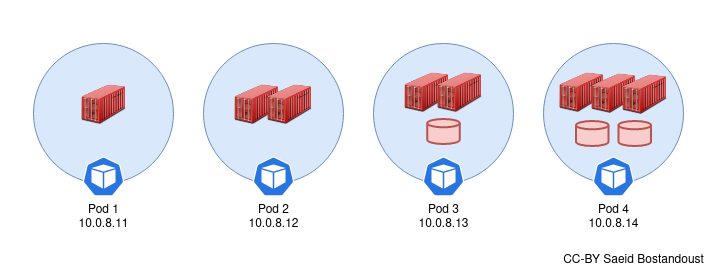
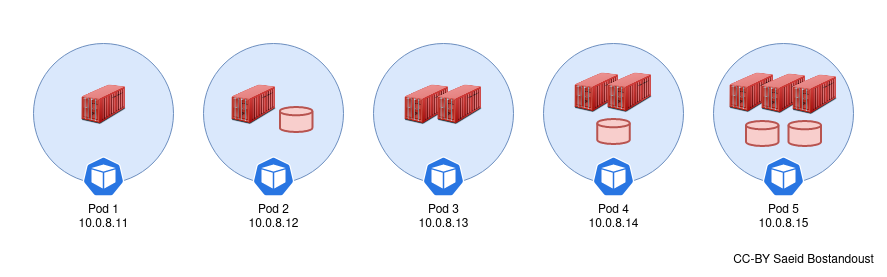
update pods diagram and examples

diff --git a/contents/concepts/resources/workloads/pods.md b/contents/concepts/resources/workloads/pods.md
@@ -13,9 +13,10 @@ Because Pods do not have any self-healing mechanism, we rarely create them direc
 </p>
 
  - **Pod 1**: This is a one-container-per-pod model. In most cases, we use this model.
- - **Pod 2**: In this Pod, two containers are running, and the network and lifecycle of them are shared together.
- - **Pod 3**: In this Pod, two containers are running, and the network, storage, and lifecycle of them are shared together.
- - **Pod 4**: This example is like the previous one but on a larger scale.
+ - **Pod 2**: This is a one-container-per-pod model in conjunction with a storage volume.
+ - **Pod 3**: In this Pod, two containers are running, and the network and lifecycle of them are shared together.
+ - **Pod 4**: In this Pod, two containers are running, and the network, storage, and lifecycle of them are shared together.
+ - **Pod 5**: This example is like the previous one but on a larger scale.
 
 # Example
 
